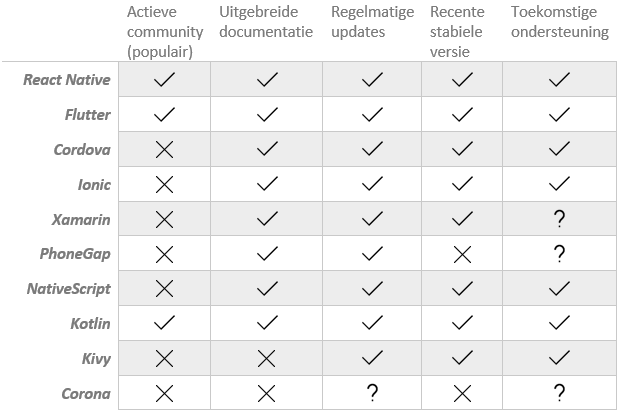
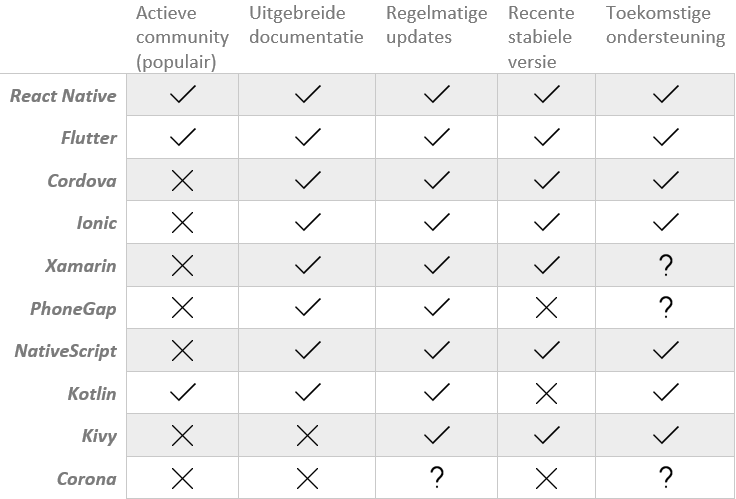
Kotlin uit vergelijking gelaten

diff --git a/BP/samenvatting.tex b/BP/samenvatting.tex
@@ -38,7 +38,7 @@
 
 In de wereld van vandaag beschikt bijna iedereen over een smartphone. Om deze apparaten ten volle te kunnen benutten zijn er miljoenen applicaties beschikbaar die op hun beurt kunnen rekenen op miljoenen gebruikers. Om aan de steeds groter wordende verwachtingen van de gebruikers te voldoen spenderen ontwikkelaars zeer veel tijd aan het bouwen van nieuwe applicaties en het onderhouden en verbeteren van reeds bestaande applicaties. Bij het ontwikkelen van mobiele applicaties komen ontwikkelaars steeds weer dezelfde uitdaging tegen: er zijn verschillende populaire besturingssystemen waarop deze applicaties moeten kunnen werken voor mobiele gebruikers, zijnde iOS, Android en Windows (in de B2B markt). Aangezien ontwikkelaars natuurlijk niet op voorhand reeds een heel groot percentage potentiële gebruikers willen uitsluiten moeten alle applicaties ontwikkeld worden voor alle besturingssystemen. Dit is een tijdrovend en repetitief proces, aangezien er in se telkens hetzelfde gemaakt wordt. Om dit probleem aan te pakken zijn cross-platform frameworks in het leven geroepen. Dit zijn frameworks die de ontwikkelaars in staat stellen om met één enkele broncode hun applicatie te laten werken op verschillende besturingssystemen. Dit levert een grote tijdswinst op voor de ontwikkelaars en is dus een zeer interessante technologie om mee aan de slag te gaan. De laatste jaren zijn meer en meer producenten van frameworks zich hier dan ook op gaan focussen met als gevolg dat er nu een brede keuze is aan verschillende cross-platform frameworks. De vraag dringt zich dan ook op welke van deze bestaande frameworks de beste keuze is om in de toekomst mee aan de slag te gaan voor het ontwikkelen van mobiele applicaties.
 
-Om een objectief antwoord te kunnen geven op deze vraag wordt er eerst een lijst met eisen opgesteld waar de frameworks zeker aan moeten voldoen. In deze studie zullen drie cross-platform frameworks die aan alle eisen voldoen met elkaar vergeleken worden: React Native (Facebook), Flutter (Google) en .NET MAUI (Microsoft). Concreet zal er gewerkt worden rond de volgende onderzoeksvraag: welk cross platform framework is de beste keuze voor een team van ontwikkelaars om de komende jaren op in te zetten voor het ontwikkelen van mobiele applicaties. Hierbij zal gekeken worden naar de gebruiksvriendelijkheid voor zowel de ontwikkelaar als de gebruiker, de ondersteuning van het framework (community, libraries, documentatie), de snelheid van apps ontwikkeld met dit framework en de mogelijkheid om te communiceren met de native API's. Van elke technologie zullen de sterke en zwakke punten opgesomd worden, ze zullen onderling vergeleken worden op de hiervoor benoemde punten en in de conclusie zal een aanbeveling gedaan worden welk framework het meest 'future-proof' is. 
+Om een objectief antwoord te kunnen geven op deze vraag wordt er eerst een lijst met eisen opgesteld waar de frameworks zeker aan moeten voldoen. In deze studie zullen drie cross-platform frameworks met elkaar vergeleken worden: React Native (Facebook), Flutter (Google) en .NET MAUI (Microsoft). Concreet zal er gewerkt worden rond de volgende onderzoeksvraag: welk cross platform framework is de beste keuze voor een team van ontwikkelaars om de komende jaren op in te zetten voor het ontwikkelen van mobiele applicaties. Hierbij zal gekeken worden naar de gebruiksvriendelijkheid voor zowel de ontwikkelaar als de gebruiker, de ondersteuning van het framework (community, libraries, documentatie), de snelheid van apps ontwikkeld met dit framework en de mogelijkheid om te communiceren met de native API's. Van elke technologie zullen de sterke en zwakke punten opgesomd worden, ze zullen onderling vergeleken worden op de hiervoor benoemde punten en in de conclusie zal een aanbeveling gedaan worden welk framework het meest 'future-proof' is. 
 
 % Taak
 

diff --git a/BP/eisenframework.tex b/BP/eisenframework.tex
@@ -1,7 +1,7 @@
 \chapter{\IfLanguageName{dutch}{Eisen framework}{Framework requirements}}
 \label{ch:eisen-framework}
 
-Alvorens een vergelijking kan gemaakt worden tussen enkele frameworks moet er bepaald worden welke frameworks voldoen aan de eisen die gesteld worden door het team. De eisen worden onderverdeeld in functionele en niet-functionele eisen. De eisen waaraan de frameworks binnen deze studie moeten voldoen zijn te vinden in de onderstaande secties. In een volgend hoofdstuk worden vervolgens alle cross-platform frameworks van de opgestelde longlist afgetoetst aan deze eisen. Enkel frameworks die voldoen aan al deze eisen komen in aanmerking om mee genomen te worden in de vergelijkende studie.
+In het vorige hoofdstuk werd de eerste deelonderzoeksvraag beantwoord, namelijk wat de voor- en nadelen van een cross-platform framework zijn. Alvorens een vergelijking kan gemaakt worden tussen enkele frameworks en dus de volgende deelonderzoeksvragen beantwoord kunnen worden moet er bepaald worden welke frameworks voldoen aan de eisen die gesteld worden door het team. De eisen worden onderverdeeld in functionele en niet-functionele eisen. De eisen waaraan de frameworks binnen deze studie moeten voldoen zijn te vinden in de onderstaande secties. In een volgend hoofdstuk worden vervolgens alle cross-platform frameworks van de opgestelde longlist afgetoetst aan deze eisen. Enkel frameworks die voldoen aan al deze eisen komen in aanmerking om mee genomen te worden in de vergelijkende studie.
 
 \section{Functionele eisen}
 \label{sec:functioneleEisen}

diff --git a/BP/inleiding.tex b/BP/inleiding.tex
@@ -80,7 +80,7 @@ Zoals reeds eerder vermeld is er echter een zeer groot aanbod van dergelijke fra
 
 \subsection{Hoofdonderzoeksvraag}
 
-Zoals reeds eerder aangegeven zal dit onderzoek zich richten op het vergelijken van drie cross-platform frameworks: Flutter, ReactNative en Kotlin Multiplatform. Hieruit volgt dan ook de volgende onderzoeksvraag:
+Zoals reeds eerder aangegeven zal dit onderzoek zich richten op het vergelijken van drie cross-platform frameworks: Flutter, ReactNative en .NET MAUI. Hieruit volgt dan ook de volgende onderzoeksvraag:
 
 Welk cross-platform framework is de beste keuze om de komende jaren mee aan de slag te gaan voor het ontwikkelen van applicaties bestemd voor de B2B-markt?
 
@@ -92,8 +92,8 @@ Om tot een antwoord te kunnen komen op de hoofdonderzoeksvraag wordt in deze stu
 
 \begin{itemize}
     \item Wat is een cross-platform framework en wat zijn de sterktes en zwaktes hiervan?
-    \item Wat zijn de voor- en nadelen van Flutter, ReactNative en Kotlin Multiplatform?
-    \item Wat zijn de verschillen en gelijkenissen tussen de drie eerder genoemde frameworks?
+    \item Wat zijn de voor- en nadelen van Flutter, React Native en .NET MAUI?
+    \item Wat zijn de verschillen en gelijkenissen tussen Flutter, React Native en .NET MAUI?
     \item Wat zijn de toekomstplannen van de producenten met de respectievelijke frameworks?
 \end{itemize}
 

diff --git a/BP/keuzeframeworks.tex b/BP/keuzeframeworks.tex
@@ -127,6 +127,11 @@ In figuur \ref{fig:frameworkPopularity} is een vraagteken te zien bij de toekoms
 
 NativeScript is een framework dat net als Cordova en Ionic moet inboeten aan populariteit ten opzichte van andere frameworks. Ook hier kan dus dezelfde conclusie getrokken worden dat dit geen goede keuze is om de komende jaren op in te zetten.
 
+\subsection{Kotlin}
+\label{subsubsec:KoltinEisen}
+
+Kotlin is een framework dat oorspronkelijk gemaakt is voor het ontwikkelen van Android applicaties. Sinds release 1.3 is er ook de mogelijkheid om cross-platform applicaties te schrijven. Deze functionaliteit is echter nog experimenteel, er is dus nog geen stabiele versie van het framework waar cross-platform ontwikkeling een vast deel van uitmaakt. Voor het ontwikkelen van applicaties voor bedrijven in de komende jaren is het absoluut noodzakelijk dat er gerekend kan worden op een stabiele versie van het framework, zodat alle onderteuning die nodig is ook effectief gegarandeerd kan worden. Kotlin is dus met andere woorden op dit moment geen goede optie, al toont het wel zeer veel potentieel.
+
 \subsubsection{Kivy}
 \label{subsubsec:KivyEisen}
 
